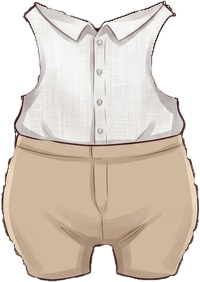
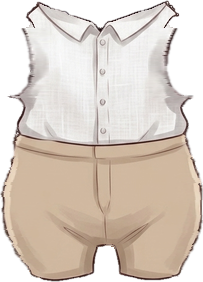
보이그룹 의상 29벌 털 비침 정리(폭 맞춤·틈·구멍·검은/주황 털 자국), 미리보기 도감 눌러서 크게 보기

diff --git a/index.html b/index.html
@@ -235,6 +235,7 @@ input[type=text]{width:100%;border:2px solid var(--gold);background:#fffdf6;bord
 .avbox img.a3{background:transparent}
 .st3host .vig{z-index:1;position:absolute;left:3px;top:3px;right:3px;bottom:3px;border-radius:11px;pointer-events:none;-webkit-backdrop-filter:blur(1.3px) brightness(.9) saturate(.92);backdrop-filter:blur(1.3px) brightness(.9) saturate(.92);background:radial-gradient(ellipse 75% 70% at 50% 55%,transparent 55%,rgba(20,10,40,.38) 100%)}
 .evrow{display:flex;align-items:center;gap:8px;padding:5px 0;border-bottom:1px dashed #f0d8c0}.evrow b{flex:none;width:96px;font-size:13px}.evrow select{flex:1;min-width:0}.evrow .avbox{flex:none}
+.pvbig{display:flex;justify-content:center}.pvgrid>div[data-pvbig]{cursor:pointer}
 .pvgrid{display:grid;grid-template-columns:repeat(auto-fill,minmax(92px,1fr));gap:8px;margin-top:8px}.pvgrid>div{display:flex;flex-direction:column;align-items:center;gap:3px;text-align:center}.pvgrid small{font-size:11px;line-height:1.2}
 .allrow{background:#fff6fb;border-radius:12px;margin-bottom:4px}
 .allico{flex:none;width:48px;height:48px;border-radius:50%;display:grid;place-items:center;font-size:24px;background:#ffe3f0;border:2.5px solid #fff;box-shadow:0 0 0 2px var(--gold)}
@@ -1346,7 +1347,7 @@ document.body.insertAdjacentHTML('afterbegin', puppetDefs());
 const blinkDelay = m => `animation-delay:${-((m.hue || 0) % 46) / 10}s`;
 // ===== 2D 고양이 아이돌 (그림 AI 그림 + 휘는 메시 애니메이션, cat2d.js) =====
 const CATS = [['cheese', '치즈'], ['tuxedo', '턱시도'], ['calico', '삼색'], ['black', '까망'], ['white', '하양'], ['tabby', '고등어'], ['siamese', '샴'], ['gray', '러블']];
-const CATV = '?v=22';
+const CATV = '?v=23';
 // 옷·소품 (art/cat/item-*.png, 좌표는 items.json). 무대에서는 콘셉트 의상, 평소엔 멤버별로 고른 옷
 const WEAR_CLOTH = [[null, '없음'], ['hoodie', '후드 조끼'], ['sport', '운동복'], ['dress', '프릴 원피스'], ['sailor', '세일러'], ['leather', '가죽 조끼'], ['cape', '별빛 망토'], ['polka', '물방울 원피스'], ['jersey', '힙합 저지'], ['ballad', '흰 드레스'], ['reddress', '빨간 드레스']];
 const WEAR_ACC = [[null, '없음'], ['ribbon', '리본'], ['crown', '왕관'], ['beret', '베레모'], ['cap', '야구 모자'], ['sunglasses', '선글라스'], ['flower', '꽃 화관'], ['bowtie', '나비넥타이']];
@@ -2065,7 +2066,8 @@ function pvRender() {
   S.members = pvMembers();
   const chip = (attr, v, cur, l) => `<button class="chip${String(cur) === String(v) ? ' on' : ''}" data-${attr}="${v}">${l}</button>`;
   const items = [...WEAR_CLOTH.filter(x => x[0]), ...Object.values(STAGE_WEAR).flat(), ...Object.values(EVENT_WEAR).flatMap(e => e[1]), ...WEAR_ACC.filter(x => x[0]), ['headset', '헤드셋 마이크 (무대 자동)']].filter(([k]) => ITEMINFO[k]);
-  const boyItems = Object.keys(BOY_NAME).filter(k => ITEMINFO[k]);   // 보이그룹 전용 옷 (걸그룹 화면에서도 보이게)
+  const boyItems = Object.keys(BOY_NAME).filter(k => ITEMINFO[k]);
+  PV.big = [...items.map(([k, n]) => [k, boyName(k, n)]), ...(S.gender === 'boy' ? [] : boyItems.map(k => [k, BOY_NAME[k]]))];   // 크게 보기 넘기기 순서   // 보이그룹 전용 옷 (걸그룹 화면에서도 보이게)
   const gm = { id: 'g', cat: PV.gal, stats: { person: 50 }, wear: {}, hue: 300 };
   $('#app').innerHTML = `<header><div class="top"><div class="ribbon">🔍 미리보기</div><a class="btn sub small" href="./" style="margin-left:auto">게임으로 ▶</a></div></header>
 <p class="muted center">게임을 하지 않고 장면·인원·옷·동작을 바로 골라 볼 수 있어요. 여기서 바꾼 건 저장되지 않아요.</p>
@@ -2083,13 +2085,16 @@ ${PV.cloth === 'auto' ? `<label class="f">무대 콘셉트 (자동일 때 음악
 </div>
 <h2>이벤트 창</h2><div class="card"><p class="muted">맨 앞 고양이(${esc(S.members[0] ? S.members[0].name : '')})에게 일이 생긴 걸로 창을 띄워요. 대처를 골라 결과 창까지 볼 수 있어요.</p><div class="chips">${[['열애', '💑 열애설'], ['인성', '😠 인성 논란'], ['실력', '🎤 실력 논란'], ['외모', '💄 외모 논란'], ['말실수', '💬 말실수'], ['사생', '👁 사생팬']].map(([k, l]) => `<button class="chip" data-pvev="${k}">${l}</button>`).join('')}</div></div>
 <h2>옷·소품 도감</h2><div class="card"><label class="f">입혀 볼 고양이</label><div class="chips">${CATS.map(([k, l]) => chip('pvgal', k, PV.gal, l)).join('')}</div>
-<div class="pvgrid">${items.map(([k, n]) => `<div>${avatar(gm, 84, true, k)}<small>${esc(boyName(k, n))}</small></div>`).join('')}</div>
-${S.gender === 'boy' ? '' : `<label class="f">보이그룹 전용 옷 (보이그룹이면 위 옷 대신 이걸 입어요)</label><div class="pvgrid">${boyItems.map(k => `<div>${avatar(gm, 84, true, k)}<small>${esc(BOY_NAME[k])}</small></div>`).join('')}</div>`}</div>`;
+<p class="muted" style="font-size:12px">옷을 누르면 크게 볼 수 있어요.</p><div class="pvgrid">${items.map(([k, n]) => `<div data-pvbig="${k}">${avatar(gm, 84, true, k)}<small>${esc(boyName(k, n))}</small></div>`).join('')}</div>
+${S.gender === 'boy' ? '' : `<label class="f">보이그룹 전용 옷 (보이그룹이면 위 옷 대신 이걸 입어요)</label><div class="pvgrid">${boyItems.map(k => `<div data-pvbig="${k}">${avatar(gm, 84, true, k)}<small>${esc(BOY_NAME[k])}</small></div>`).join('')}</div>`}</div>`;
   if (PV.scene !== 'clinic' && !dlg.open) mount2d($('#pvstage'), S.members, PV.scene);   // 이벤트 창이 열려 있으면 그 창 무대를 그대로 둠
 }
 document.addEventListener('click', e => {
-  if (!window.PV) return; const t = e.target.closest('[data-pvn],[data-pvmode],[data-pvshuffle],[data-pvgal],[data-pvev],[data-pvg]'); if (!t) return;
+  if (!window.PV) return; const t = e.target.closest('[data-pvn],[data-pvmode],[data-pvshuffle],[data-pvgal],[data-pvev],[data-pvg],[data-pvbig],[data-pvbigcat],[data-pvbigi]'); if (!t) return;
   const d = t.dataset;
+  if (d.pvbig) return pvBig(PV.big.findIndex(x => x[0] === d.pvbig));
+  if (d.pvbigi) return pvBig(+d.pvbigi);
+  if (d.pvbigcat) { PV.bigCat = d.pvbigcat; return pvBig(PV.bigI); }
   if (d.pvev) {   // 논란·사생팬 창 띄우기 (게임과 같은 창)
     const m = S.members[0], k = d.pvev; if (!m) return;
     const head = k === '사생' ? pick(['숙소 앞까지 따라온 사생팬', '이동 차량을 쫓아온 사생팬']) : pick(HEAD[k]);
@@ -2102,6 +2107,16 @@ document.addEventListener('click', e => {
   if (d.pvshuffle) PV.cats = PV.cats.map(c => [Math.random(), c]).sort((a, b) => a[0] - b[0]).map(x => x[1]);
   pvRender();
 });
+// 도감 옷 크게 보기: 고양이 바꾸기, ◀ ▶로 다음 옷
+function pvBig(i) {
+  const L = PV.big, n = L.length; if (!n) return; i = (i + n) % n; PV.bigI = i;
+  const [k, name] = L[i], cat = PV.bigCat || PV.gal, gm = { id: 'g', cat, stats: { person: 50 }, wear: {}, hue: 300 };
+  openDlg(`<h2 style="margin-bottom:4px">${esc(name)}</h2><p class="muted center" style="margin:0 0 6px">${i + 1} / ${n}</p>
+<div class="pvbig">${avatar(gm, 250, true, k)}</div>
+<div class="row" style="justify-content:space-between;margin:8px 0"><button class="btn sub small" data-pvbigi="${i - 1}">◀ 이전</button><button class="btn sub small" data-pvbigi="${i + 1}">다음 ▶</button></div>
+<div class="chips" style="justify-content:center">${CATS.map(([c, l]) => `<button class="chip${c === cat ? ' on' : ''}" data-pvbigcat="${c}">${l}</button>`).join('')}</div>
+<button class="btn" data-act="close" style="width:100%;margin-top:10px">닫기</button>`);
+}
 document.addEventListener('change', e => { if (!window.PV || !e.target.dataset.pvsel) return; PV[e.target.dataset.pvsel] = e.target.value; pvRender(); });
 const IS_PV = new URLSearchParams(location.search).has('preview');
 if (IS_PV) pvStart(); else {

diff --git a/sw.js b/sw.js
@@ -1,5 +1,5 @@
 // 인터넷이 없어도 열리도록 앱 파일을 저장해 둠. 앱을 고치면 VERSION 숫자를 올릴 것.
-const VERSION = "v36";
+const VERSION = "v37";
 const FILES = ["./", "index.html", "manifest.webmanifest", "icon-180.png", "icon-192.png", "icon-512.png"];
 self.addEventListener("install", e => { e.waitUntil(caches.open(VERSION).then(c => c.addAll(FILES))); self.skipWaiting(); });
 self.addEventListener("activate", e => { e.waitUntil(caches.keys().then(ks => Promise.all(ks.filter(k => k !== VERSION).map(k => caches.delete(k))))); self.clients.claim(); });
